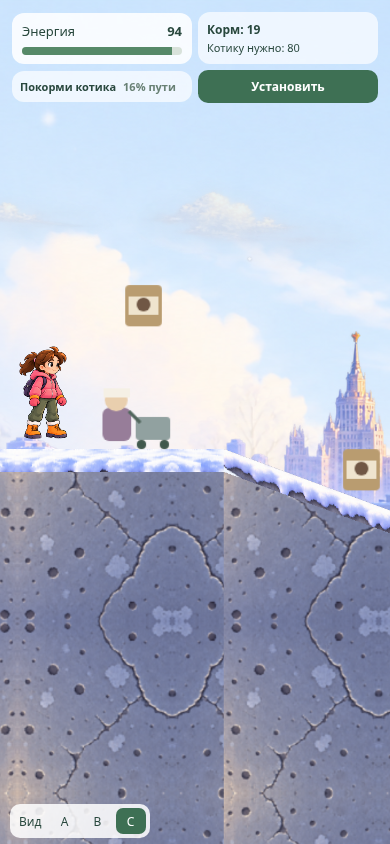
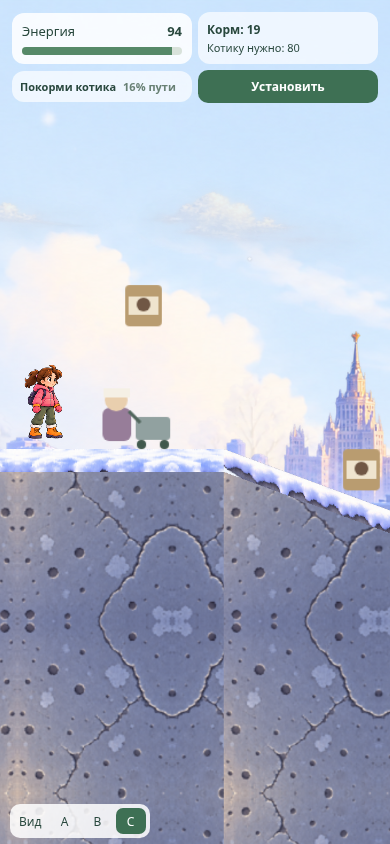
Reduce current Tanya visual size by 20 percent

Changed region(s): [[0.0308, 0.4005, 0.1846, 0.5237]]

diff --git a/src/tanya-visual.ts b/src/tanya-visual.ts
@@ -9,7 +9,7 @@ export const tanyaArt = {
   key: 'tanya:stand', file: 'assets/characters/tanya/tanya-stand.png',
   sourceWidth: 1024, sourceHeight: 1536,
   frame: { x: 150, y: 49, width: 762, height: 1387 },
-  renderedHeight: 80.6, rasterHeight: 248, rasterWidth: 138,
+  renderedHeight: 64.48, rasterHeight: 248, rasterWidth: 138,
   displayKey: 'tanya:stand-display',
 };
 type TanyaPose = { key: string; frame: string; renderedHeight: number };

diff --git a/GAME_DESIGN.md b/GAME_DESIGN.md
@@ -1580,3 +1580,10 @@ Keep bottom-center anchoring,24×50 body/offset8,4, carrier dimensions, physics,
 level geometry, objects, camera and energy unchanged. Do not adapt platforms
 or passages to the larger artwork in this pass. This overrides §33's rendered
 size/visual clearance statement; the physical clearance is unchanged.
+
+
+## 35. Approved character scale correction
+
+Reduce Tanya visual size by20% from §34: 80.6 × 0.8 = 64.48px tall,
+35.88px wide, prepared-texture scale0.26. This supersedes §34 visual size.
+Keep physics body, foot anchor, level geometry, movement and camera unchanged.

diff --git a/docs/tanya/README.md b/docs/tanya/README.md
@@ -1,7 +1,7 @@
 # Tanya — static character integration
 
-> Latest phone request: visual size increased by30% to44.85×80.6 world px
-> (prepared texture scale0.325). Physics/body, foot anchor, camera and level
+> Latest phone request: visual size reduced by20% from the previous size to35.88×64.48 world px
+> (prepared texture scale0.26). Physics/body, foot anchor, camera and level
 > remain unchanged. The original62px sizing audit below is historical; no
 > geometry adaptation is part of this experiment.
 
